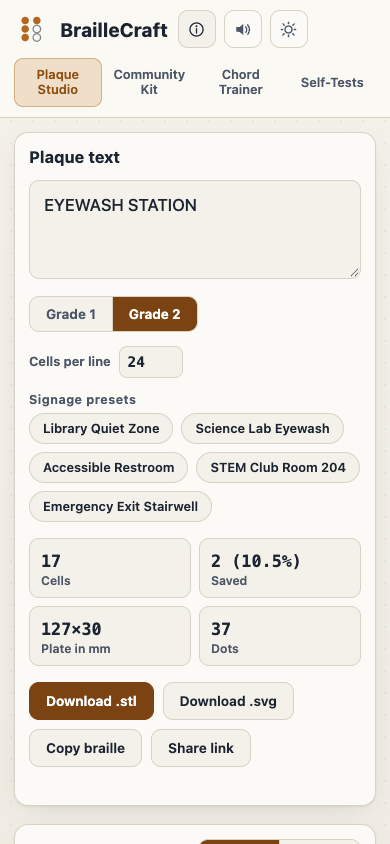
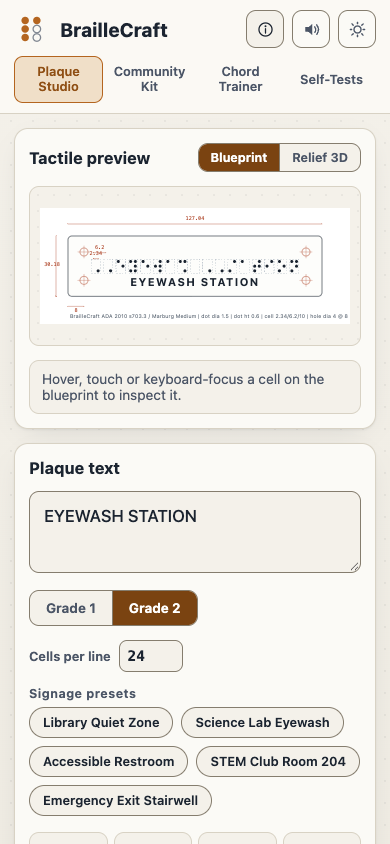
Polish studio layout, contrast, focus, relief preview and print
Controls get a stronger boundary token so every button, chip, segment,
field and keycap border clears 3:1 against its surface in both themes.
The numbered dot cell in How it works uses a solid fill so its digits
hold AA contrast.

The sticky header now drives scroll-padding-top and the sticky handoff
card from one clearance token per breakpoint, so keyboard focus never
lands under it. Below 1040 px the header is two clean rows: brand and
actions, then full-width tabs.

On phones the live tactile preview comes first so the plaque, the
inspector and the text box are all on the first screen. On desktop the
preview stage grows to match the input card.

The relief preview is now a three-quarter view that sizes its canvas to
the plate, so long signs stay wide and the domes are larger. The
inspector shows the cell as large tactile domes with a sentence-case rule
badge.

Plain print of any tab drops the controls and prints the work on white in
the light palette, even from dark mode. The handoff and card print modes
are unchanged. Hover transitions apply to plain buttons only and stay
above the reduced-motion override, which remains the last rule.

diff --git a/styles.css b/styles.css
@@ -11,6 +11,7 @@
   --ink: #1b2430;
   --ink-2: #4b5566;
   --line: #d8d2c4;
+  --line-strong: #857d6e;
   --accent: #b4651f;
   --accent-ink: #8f4f14;
   --accent-soft: #f0dfc8;
@@ -23,6 +24,7 @@
   --radius: 14px;
   --mono: ui-monospace, "SF Mono", Menlo, Consolas, monospace;
   --sans: ui-sans-serif, system-ui, -apple-system, "Segoe UI", sans-serif;
+  --hdr-clear: 84px;
 }
 
 html[data-theme="dark"] {
@@ -32,6 +34,7 @@ html[data-theme="dark"] {
   --ink: #e9e4d7;
   --ink-2: #a3adba;
   --line: #2a3442;
+  --line-strong: #717b8b;
   --accent: #e8a33d;
   --accent-ink: #f0b45c;
   --accent-soft: #33291a;
@@ -43,7 +46,7 @@ html[data-theme="dark"] {
   --shadow: 0 1px 2px rgba(0,0,0,.4), 0 10px 30px -12px rgba(0,0,0,.55);
 }
 
-html { -webkit-text-size-adjust: 100%; }
+html { -webkit-text-size-adjust: 100%; scroll-padding-top: var(--hdr-clear); }
 
 body {
   margin: 0;
@@ -93,16 +96,20 @@ kbd {
   background: transparent; border: 1px solid transparent;
   border-radius: 9px; padding: 8px 15px; cursor: pointer;
 }
+/* plain buttons ease their hover; tabs, segments and chips switch state instantly */
+.btn, .icon-btn {
+  transition: background-color .16s ease, border-color .16s ease, color .16s ease;
+}
 .tab:hover { color: var(--ink); background: var(--accent-soft); }
 .tab[aria-selected="true"] {
   color: var(--accent-ink); background: var(--accent-soft);
-  border-color: color-mix(in srgb, var(--accent) 40%, transparent);
+  border-color: var(--accent);
 }
 
 .top-actions { display: flex; gap: 8px; }
 .icon-btn {
   width: 38px; height: 38px; border-radius: 10px; cursor: pointer;
-  border: 1px solid var(--line); background: var(--card); color: var(--ink-2);
+  border: 1px solid var(--line-strong); background: var(--card); color: var(--ink-2);
   display: grid; place-items: center;
 }
 .icon-btn:hover { color: var(--accent-ink); border-color: var(--accent); }
@@ -154,7 +161,7 @@ textarea {
   width: 100%; resize: vertical;
   font: 500 1.05rem var(--sans); color: var(--ink);
   background: var(--paper);
-  border: 1px solid var(--line); border-radius: 10px;
+  border: 1px solid var(--line-strong); border-radius: 10px;
   padding: 12px 14px; line-height: 1.45;
 }
 textarea:focus { outline: 2px solid var(--accent); outline-offset: 1px; }
@@ -162,21 +169,21 @@ textarea:focus { outline: 2px solid var(--accent); outline-offset: 1px; }
 .fld-row { display: flex; gap: 14px; align-items: center; margin: 14px 0; flex-wrap: wrap; }
 
 .seg {
-  display: inline-flex; border: 1px solid var(--line);
+  display: inline-flex; border: 1px solid var(--line-strong);
   border-radius: 10px; overflow: hidden; background: var(--paper);
 }
 .seg-btn {
   font: 650 .84rem var(--sans); color: var(--ink-2);
   border: 0; background: transparent; padding: 9px 16px; cursor: pointer;
 }
-.seg-btn + .seg-btn { border-left: 1px solid var(--line); }
+.seg-btn + .seg-btn { border-left: 1px solid var(--line-strong); }
 .seg-btn[aria-pressed="true"] { background: var(--accent-solid); color: var(--on-accent); }
 .seg-sm .seg-btn { padding: 6px 12px; font-size: .78rem; }
 
 .maxcols { font: 650 .8rem var(--sans); color: var(--ink-2); display: flex; align-items: center; gap: 8px; }
 .maxcols input {
   width: 64px; font: 600 .9rem var(--mono); color: var(--ink);
-  background: var(--paper); border: 1px solid var(--line);
+  background: var(--paper); border: 1px solid var(--line-strong);
   border-radius: 8px; padding: 7px 8px;
 }
 
@@ -184,7 +191,7 @@ textarea:focus { outline: 2px solid var(--accent); outline-offset: 1px; }
 .preset-chips { display: flex; flex-wrap: wrap; gap: 8px; }
 .chip {
   font: 620 .8rem var(--sans); color: var(--ink);
-  border: 1px solid var(--line); border-radius: 999px;
+  border: 1px solid var(--line-strong); border-radius: 999px;
   background: var(--paper); padding: 7px 13px; cursor: pointer;
 }
 .chip:hover { border-color: var(--accent); color: var(--accent-ink); }
@@ -209,7 +216,7 @@ textarea:focus { outline: 2px solid var(--accent); outline-offset: 1px; }
 .actions { display: flex; flex-wrap: wrap; gap: 9px; }
 .btn {
   font: 650 .85rem var(--sans); color: var(--ink);
-  background: var(--paper); border: 1px solid var(--line);
+  background: var(--paper); border: 1px solid var(--line-strong);
   border-radius: 10px; padding: 10px 16px; cursor: pointer;
 }
 .btn:hover { border-color: var(--accent); color: var(--accent-ink); }
@@ -235,7 +242,12 @@ textarea:focus { outline: 2px solid var(--accent); outline-offset: 1px; }
 .svg-stage .cellg:hover .cellbox, .svg-stage .cellg:focus-visible .cellbox {
   stroke: var(--accent); stroke-width: .45;
 }
-.iso-canvas { width: 100%; height: 340px; display: block; cursor: grab; }
+@media (min-width: 961px) {
+  /* the preview stage grows to match the input card, so no dead band sits under the inspector */
+  .preview-card { display: flex; flex-direction: column; }
+  .preview-card .stage { flex: 1 1 auto; }
+}
+.iso-canvas { width: 100%; height: 300px; display: block; cursor: grab; touch-action: pan-y; }
 .iso-canvas:active { cursor: grabbing; }
 
 .tilt-row {
@@ -252,14 +264,17 @@ textarea:focus { outline: 2px solid var(--accent); outline-offset: 1px; }
   background: var(--paper); padding: 12px 14px; min-height: 76px;
 }
 .insp-idle { color: var(--ink-2); font-size: .86rem; }
-.insp-grid { display: grid; grid-template-columns: auto 1fr; gap: 4px 18px; align-items: center; }
-.insp-cell-face { font-size: 2rem; font-family: var(--mono); line-height: 1; }
-.insp-rows { display: grid; gap: 2px; font-size: .82rem; }
+.insp-grid { display: grid; grid-template-columns: auto minmax(0, 1fr); gap: 4px 16px; align-items: center; }
+.insp-cell-face { background: var(--card); }
+.insp-rows { display: grid; gap: 3px; font-size: .84rem; line-height: 1.45; min-width: 0; overflow-wrap: anywhere; }
 .insp-rows b { font-family: var(--mono); font-weight: 700; }
+.insp-head { display: flex; align-items: center; flex-wrap: wrap; gap: 4px 10px; margin-bottom: 2px; }
+.insp-glyph { font: 1.45rem/1 var(--mono); color: var(--ink); }
 .insp-rule {
-  display: inline-block; font: 650 .68rem var(--sans); letter-spacing: .05em;
-  text-transform: uppercase; color: var(--accent-ink);
-  background: var(--accent-soft); border-radius: 5px; padding: 2px 7px;
+  display: inline-block; font: 700 .76rem var(--sans);
+  color: var(--accent-ink); background: var(--accent-soft);
+  border: 1px solid color-mix(in srgb, var(--accent) 45%, transparent);
+  border-radius: 6px; padding: 2px 8px;
 }
 .insp-dots { display: inline-grid; grid-template-columns: repeat(2, 10px); gap: 4px 6px; vertical-align: middle; margin-inline: 8px; }
 .insp-dots i { width: 10px; height: 10px; border-radius: 50%; border: 1.5px solid var(--ink-2); }
@@ -319,7 +334,7 @@ textarea:focus { outline: 2px solid var(--accent); outline-offset: 1px; }
 
 .keycap {
   width: 74px; height: 58px; border-radius: 12px; cursor: pointer;
-  border: 1px solid var(--line); border-bottom-width: 4px;
+  border: 1px solid var(--line-strong); border-bottom-width: 4px;
   background: linear-gradient(180deg, var(--card), var(--paper));
   display: flex; flex-direction: column; align-items: center; justify-content: center; gap: 4px;
   font: 750 .95rem var(--mono); color: var(--ink);
@@ -417,6 +432,10 @@ textarea:focus { outline: 2px solid var(--accent); outline-offset: 1px; }
 .dcell-out { grid-template-columns: repeat(2, 11px); gap: 5px 6px; padding: 7px 8px; background: var(--paper); }
 .dcell-out i { width: 11px; height: 11px; }
 .dcell.numbered i { display: grid; place-items: center; font: 800 .7rem var(--mono); color: var(--on-accent); font-style: normal; }
+.dcell.numbered i.on {
+  background: var(--accent-solid);
+  box-shadow: inset 0 1px 0 rgba(255, 255, 255, .22), 0 1.5px 2px rgba(0, 0, 0, .28);
+}
 
 /* ----------------------------- community kit ----------------------------- */
 
@@ -431,7 +450,7 @@ textarea:focus { outline: 2px solid var(--accent); outline-offset: 1px; }
 .kit-sign::before { content: counter(sign); font: 700 .8rem var(--mono); color: var(--ink-2); }
 .kit-sign input, .kit-add input, .roles input, .study-form input {
   font: 600 .95rem var(--sans); color: var(--ink); background: var(--card);
-  border: 1px solid var(--line); border-radius: 9px; padding: 8px 10px; min-width: 0; width: 100%;
+  border: 1px solid var(--line-strong); border-radius: 9px; padding: 8px 10px; min-width: 0; width: 100%;
 }
 .kit-sign input::placeholder, .kit-add input::placeholder, .roles input::placeholder, .study-form input::placeholder { color: var(--ink-2); opacity: 1; }
 .kit-qty { font-family: var(--mono) !important; text-align: center; }
@@ -448,7 +467,7 @@ textarea:focus { outline: 2px solid var(--accent); outline-offset: 1px; }
 .roles legend { font: 700 .86rem var(--sans); padding: 0 6px; }
 .roles label { display: grid; gap: 5px; font: 650 .8rem var(--sans); color: var(--ink-2); }
 
-.handoff-card { position: sticky; top: 84px; }
+.handoff-card { position: sticky; top: var(--hdr-clear); }
 .handoff {
   margin: 0; font: 500 .78rem/1.6 var(--mono), "Apple Braille", "Segoe UI Symbol", sans-serif; color: var(--ink);
   white-space: pre-wrap; overflow-wrap: anywhere; max-height: 70vh; overflow: auto;
@@ -490,7 +509,32 @@ textarea:focus { outline: 2px solid var(--accent); outline-offset: 1px; }
 }
 
 @media print {
+  @page { margin: 14mm; }
+  /* print always uses the light paper palette, whichever theme is on screen */
+  :root, html[data-theme="dark"] {
+    --paper: #ffffff; --paper-2: #ffffff; --card: #ffffff;
+    --ink: #1b2430; --ink-2: #3f4857; --line: #c9c2b2; --line-strong: #857d6e;
+    --accent: #b4651f; --accent-ink: #8f4f14; --accent-soft: #f6eadb;
+    --on-accent: #ffffff; --accent-solid: #7a4311; --good: #2c7a4b; --bad: #b3372c;
+    --shadow: none;
+  }
+  body { background: #fff; min-height: 0; }
+  * { print-color-adjust: exact; -webkit-print-color-adjust: exact; transition: none !important; animation: none !important; }
   .how { display: none !important; }
+  /* plain print of the open tab: the work, not the controls */
+  body:not(.print-handoff):not(.print-cards) .topbar { position: static; backdrop-filter: none; background: none; padding: 0 0 8px; }
+  body:not(.print-handoff):not(.print-cards) :is(.tabs, .top-actions, .actions, .copied, .seg, .preset-block,
+    .maxcols, #tiltRow, #kitPacks, .kit-add, .kit-rm, .pad-card, #runTests, #printCards, .study-form, .study-res, .insp-idle) { display: none !important; }
+  body:not(.print-handoff):not(.print-cards) main { max-width: none; padding: 12px 0 0; }
+  body:not(.print-handoff):not(.print-cards) :is(.studio-grid, .trainer-grid, .kit-grid) { grid-template-columns: minmax(0, 1fr); gap: 10px; }
+  body:not(.print-handoff):not(.print-cards) .card { box-shadow: none; break-inside: avoid; padding: 12px 14px; }
+  body:not(.print-handoff):not(.print-cards) .fld-row { margin: 0; }
+  body:not(.print-handoff):not(.print-cards) textarea { resize: none; border: none; padding: 0; background: none; height: auto; min-height: 0; field-sizing: content; font-size: 14pt; font-weight: 700; }
+  body:not(.print-handoff):not(.print-cards) .stage { background: #fff; min-height: 0; }
+  body:not(.print-handoff):not(.print-cards) .inspector:not(:has(.insp-grid)) { display: none; }
+  body:not(.print-handoff):not(.print-cards) .handoff-card { position: static; }
+  body:not(.print-handoff):not(.print-cards) .handoff { max-height: none; overflow: visible; }
+  body:not(.print-handoff):not(.print-cards) .foot { margin-top: 12px; padding: 8px 0 0; }
   body.print-handoff .topbar, body.print-handoff .foot, body.print-handoff main > section,
   body.print-cards .topbar, body.print-cards .foot, body.print-cards main > section { display: none !important; }
   body.print-handoff, body.print-cards { background: #fff; }
@@ -522,16 +566,36 @@ textarea:focus { outline: 2px solid var(--accent); outline-offset: 1px; }
 
 /* ------------------------------ responsive ----------------------------- */
 
+@media (max-width: 1040px) {
+  :root { --hdr-clear: 128px; }
+  .topbar { padding: 12px 18px; gap: 10px 14px; }
+  .brand { flex: 1 1 auto; }
+  .tabs { order: 3; flex: 1 1 100%; margin: 0; }
+  .tab { flex: 1; text-align: center; }
+}
+
 @media (max-width: 960px) {
   .studio-grid, .trainer-grid { grid-template-columns: minmax(0, 1fr); }
   .prompt-text { font-size: 2.1rem; }
 }
 
 @media (max-width: 560px) {
+  :root { --hdr-clear: 134px; }
   main { padding: 14px; }
-  .topbar { padding: 10px 14px; gap: 10px; }
-  .tabs { order: 3; width: 100%; margin: 0; }
-  .tab { flex: 1; text-align: center; padding: 8px 6px; }
+  .topbar { padding: 10px 14px; gap: 8px 10px; }
+  .tabs { order: 3; width: 100%; margin: 0; gap: 2px; }
+  .tab { flex: 1; text-align: center; padding: 7px 4px; }
+  /* live preview first so the plaque is on the first screen */
+  .studio-grid { gap: 14px; }
+  .preview-card { order: -1; }
+  .input-card textarea { height: 4.9em; }
+  .input-card .metrics { grid-template-columns: repeat(4, minmax(0, 1fr)); gap: 6px; }
+  .input-card .metric { padding: 7px 8px; }
+  .input-card .metric dd { font-size: .92rem; }
+  .input-card .metric dt { font-size: .7rem; }
+  .inspector { min-height: 0; padding: 10px 12px; }
+  .insp-grid { gap: 4px 12px; }
+  .stage { min-height: 160px; }
   .brand-title { font-size: 1.2rem; }
   .card { padding: 14px; }
   .metrics { grid-template-columns: repeat(2, 1fr); }

diff --git a/index.html b/index.html
@@ -96,8 +96,8 @@
         </div>
         <div class="tilt-row" id="tiltRow" hidden>
           <label for="tilt">Tilt</label>
-          <input type="range" id="tilt" min="-60" max="60" value="28" step="1">
-          <output id="tiltOut" for="tilt">28&deg;</output>
+          <input type="range" id="tilt" min="-60" max="60" value="18" step="1">
+          <output id="tiltOut" for="tilt">18&deg;</output>
         </div>
         <div class="inspector" id="inspector" aria-live="polite">
           <div class="insp-idle">Hover, touch or keyboard-focus a cell on the blueprint to inspect it.</div>

diff --git a/README.md b/README.md
@@ -27,11 +27,13 @@ BrailleCraft is a tactile engineering studio that runs entirely in the browser w
 ### Plaque Studio UI (`app.mjs`, `index.html`, `styles.css`)
 - Live translation as you type, Grade 1 / Grade 2 toggle, cells-per-line control
 - Interactive cell inspector: hover or tap any cell in the blueprint or 3D relief to see its dots, Unicode codepoint, source text span, applied UEB rule, and mm coordinates
-- Toggleable 2D blueprint / shaded isometric relief preview drawn on a canvas with lighting and a drag-to-tilt control
+- Toggleable 2D blueprint / shaded three-quarter relief preview drawn on a canvas with lighting and a drag-to-tilt control; the canvas sizes itself to the plate so long signs stay wide and every dome stays readable
 - One-click downloads: `.stl` for PrusaSlicer / Cura / Bambu Studio, `.svg` for swell paper or laser cutting
 - Five built-in signage presets (library quiet zone, science lab eyewash, accessible restroom, STEM club room, emergency exit stairwell)
 - URL-hash shareable state (preset, text, grade, lesson, theme, mute)
 - Light/dark theme, keyboard-first ARIA tab structure, responsive from `390 px` to desktop with zero horizontal overflow
+- WCAG AA text and 3:1 control boundaries in both themes, focus rings that never hide under the sticky header, and a reduced-motion override
+- Plain print of any tab drops the controls and prints the work on white in the light palette, even from dark mode
 
 ### Community Tactile Kit (`src/kit.mjs`)
 - Turns a whole hallway of signs into one volunteer print job: three starter packs (classroom hallway, science wing, community center) or your own signs, each with a copy count
